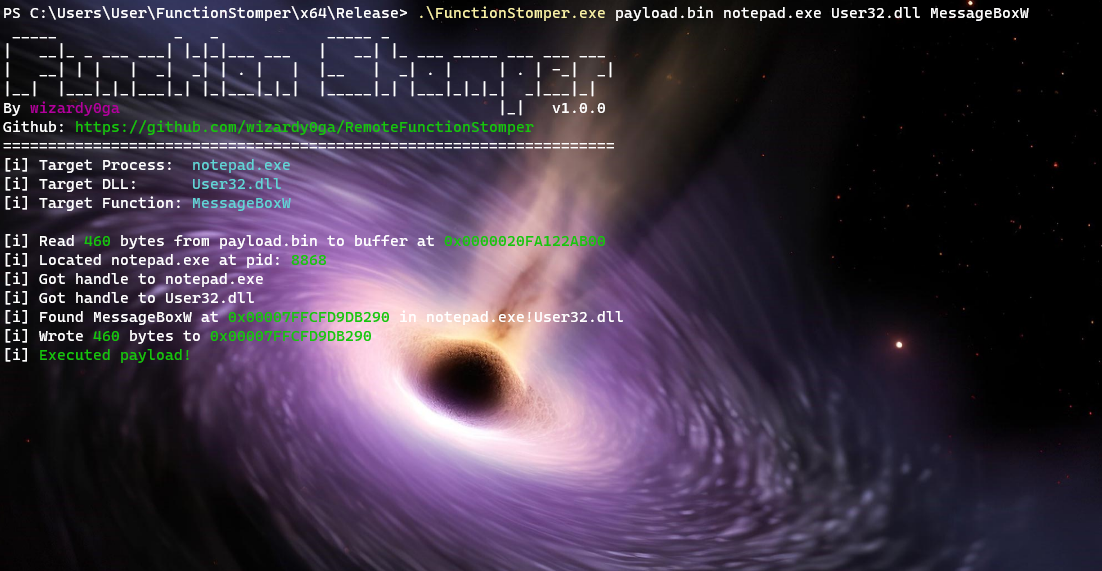
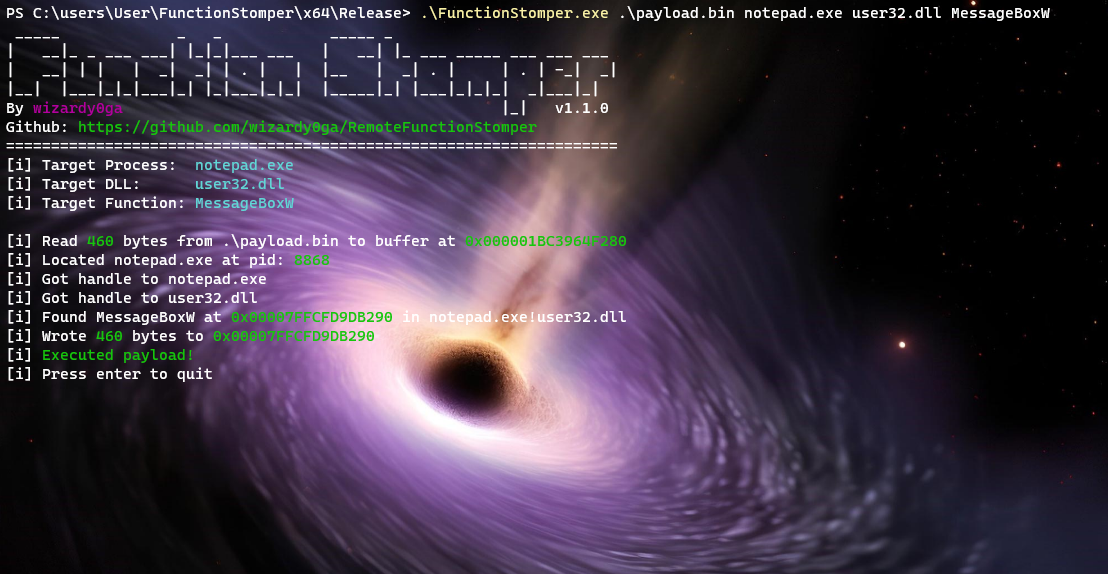
Update v1.1.0

diff --git a/FunctionStomper/FunctionStomper.c b/FunctionStomper/FunctionStomper.c
@@ -1,6 +1,7 @@
 #include <windows.h>
 #include <stdio.h>
 #include <tlhelp32.h>
+#include <psapi.h>
 
 #define GREEN   "\033[1;32m"
 #define YELLOW  "\033[1;33m"
@@ -17,14 +18,94 @@ CONST CHAR Banner[] = " _____             _   _            _____ _\n"
 "|   __|_ _ ___ ___| |_|_|___ ___   |   __| |_ ___ _____ ___ ___ ___\n"
 "|   __| | |   |  _|  _| | . |   |  |__   |  _| . |     | . | -_|  _|\n"
 "|__|  |___|_|_|___|_| |_|___|_|_|  |_____|_| |___|_|_|_|  _|___|_|\n"
-"By " PURPLE "wizardy0ga" END "                                          |_|   v1.0.0\n"
+"By " PURPLE "wizardy0ga" END "                                          |_|   v1.1.0\n"
 "Github: " GREEN "https://github.com/wizardy0ga/RemoteFunctionStomper" END "\n"
 "====================================================================\n";
 
-// description:            Gets the pid of a remote process by name
+// description:                 Convert an ansi string to a lower case string
 //
-// param -> lpProcessName: The name of the process to search for
-// param -> dwProcessId:   A pointer to a DWORD variable to write the pid to
+// param -> lpcString:          Pointer to a const char array that will be converted to a lower case string
+// param -> lpStringLower:      Pointer to a char array that will contain the lower case string
+// param -> szStringLowerSize:  Size of the lpStringLower parameter 
+VOID ConvertStringToLowerA(IN LPCSTR lpcString, OUT LPSTR lpStringLower, IN DWORD dwStringLowerSize) {
+    
+    // Set buffer to 0's
+    RtlSecureZeroMemory(lpStringLower, dwStringLowerSize);
+    
+    // Convert each character to a lower case character and store in buffer
+    SIZE_T  szStringSize    = strlen(lpcString);
+    int     i               = 0;
+    for (; i < szStringSize; i++) {
+        lpStringLower[i] = (CHAR)tolower(lpcString[i]);
+    }
+    lpStringLower[i++] = '\0';
+}
+
+// description:                  Convert a wide string to a lower case ansi string
+//
+// param -> lpcwString:          Pointer to a const wide char array that will be converted to a lower case string
+// param -> lpStringLower:       Pointer to a char array that will contain the lower case string
+// param -> szStringLowerSize:   Size of the lpStringLower parameter 
+VOID ConvertStringToLowerW(IN LPCWSTR lpcwString, OUT LPSTR lpStringLower, IN DWORD dwStringLowerSize) {
+    
+    // Set buffer to 0's
+    RtlSecureZeroMemory(lpStringLower, dwStringLowerSize);
+    
+    // Convert each character to a lower case character and store in buffer
+    SIZE_T  szStringSize    = lstrlenW(lpcwString);
+    int     i               = 0;
+    for (; i < szStringSize; i++) {
+        lpStringLower[i] = (CHAR)tolower(lpcwString[i]);
+    }
+    lpStringLower[i++] = '\0';
+}
+
+// description:                 Search a process for a loaded module
+// 
+// param -> hProcess:           Handle to the process to search
+// param -> lpcDllNameInput:    The name of the DLL to search for
+BOOL CheckProcessForModule(IN HANDLE hProcess, IN LPCSTR lpcDllNameInput) {
+    
+    HMODULE hModuleArray[1024];
+    DWORD   lpcbNeeded  = 0;
+
+    RtlSecureZeroMemory(hModuleArray, 1024);
+
+    // Populate module array with handles to modules in process
+    if (EnumProcessModules(hProcess, hModuleArray, 1024, &lpcbNeeded) == 0) {
+        apierror("EnumProcessModules");
+        return FALSE;
+    }
+
+    // Iterate over the module handles in the array
+    for (int i = 0; i < (lpcbNeeded / sizeof(HMODULE)); i++) {
+
+        // Get the name of the dll
+        CHAR lpBaseName[MAX_PATH];
+        RtlSecureZeroMemory(lpBaseName, MAX_PATH);
+        if (GetModuleBaseNameA(hProcess, hModuleArray[i], (LPSTR)lpBaseName, MAX_PATH)) {
+            
+            // Convert dll names to lower case
+            CHAR lpBaseNameLower[MAX_PATH];
+            CHAR lpDllNameInputLower[MAX_PATH];
+            ConvertStringToLowerA(lpBaseName, lpBaseNameLower, MAX_PATH);
+            ConvertStringToLowerA(lpcDllNameInput, lpDllNameInputLower, MAX_PATH);
+
+            // Check if DLL name in process matches DLL name in function
+            if (strcmp(lpBaseNameLower, lpDllNameInputLower) == 0) {
+                return TRUE;
+            }
+        }
+    }
+
+    // Return false if no matching dll name was found
+    return FALSE;
+}
+
+// description:             Gets the pid of a remote process by name
+//
+// param -> lpProcessName:  The name of the process to search for
+// param -> dwProcessId:    A pointer to a DWORD variable to write the pid to
 BOOL GetProcessPid(IN LPCSTR lpProcessName, OUT DWORD* dwProcessId) {
 
     HANDLE          hSnapshot   = NULL;
@@ -48,35 +129,29 @@ BOOL GetProcessPid(IN LPCSTR lpProcessName, OUT DWORD* dwProcessId) {
     do {
         if (Process.th32ProcessID && Process.szExeFile) {
 
-            // Set process name in structure to lowercase
+            // Set process names to lower case
             CHAR    ProcNameLower[MAX_PATH];
-            SIZE_T  StructProcessNameSize = lstrlenW(Process.szExeFile);
-            int i = 0;
-            RtlSecureZeroMemory(ProcNameLower, MAX_PATH);
-            for (; i < StructProcessNameSize; i++) {
-                ProcNameLower[i] = (CHAR)tolower(Process.szExeFile[i]);
-            }
-            ProcNameLower[i++] = '\0';
+            CHAR    ProcNameInputLower[MAX_PATH];
+            ConvertStringToLowerW(Process.szExeFile, ProcNameLower, MAX_PATH);
+            ConvertStringToLowerA(lpProcessName, ProcNameInputLower, MAX_PATH);
 
             // Check if process name matches process name given in parameter & save pid
-            if (strcmp(ProcNameLower, lpProcessName) == 0) {
+            if (strcmp(ProcNameLower, ProcNameInputLower) == 0) {
                 *dwProcessId = Process.th32ProcessID;
                 break;
             }
-
         }
 
     // Populate structure with next process in the snapshot
     } while (Process32Next(hSnapshot, &Process));
 
+    // Cleanup
     if (hSnapshot) {
         CloseHandle(hSnapshot);
     }
-
     if (*dwProcessId == 0) {
         return FALSE;
     }
-
     return TRUE;
 
 }
@@ -230,10 +305,21 @@ int main(int argc, char* argv[]) {
 
     // Open a handle to the process
     if (!(hProcess = OpenProcess(PROCESS_ALL_ACCESS, FALSE, dwProcessId))) {
-        apierror("OpenProcess");
+        if (GetLastError() == ERROR_ACCESS_DENIED) {
+            error("Insufficient privileges to access %s at pid %d", TargetProc, dwProcessId);
+        }
+        else {
+            apierror("OpenProcess");
+        }
         goto Cleanup;
     }
     print("Got handle to %s", TargetProc);
+
+    // Ensure target DLL is present in the process
+    if (!(CheckProcessForModule(hProcess, TargetDll))) {
+        error("%s is not loaded in %s", TargetDll, TargetProc);
+        goto Cleanup;
+    }
 
     // Load the target library into this process
     if (!(hModule = LoadLibraryA(TargetDll))) {

diff --git a/README.md b/README.md
@@ -3,7 +3,7 @@
 |   __|_ _ ___ ___| |_|_|___ ___   |   __| |_ ___ _____ ___ ___ ___
 |   __| | |   |  _|  _| | . |   |  |__   |  _| . |     | . | -_|  _|
 |__|  |___|_|_|___|_| |_|___|_|_|  |_____|_| |___|_|_|_|  _|___|_|
-By wizardy0ga                                          |_|   v1.0.0
+By wizardy0ga                                          |_|   v1.1.0
 Github: https://github.com/wizardy0ga/RemoteFunctionStomper
 ```
 
@@ -70,3 +70,11 @@ FunctionStomper.exe <path to payload.bin> <target process name> <dll name> <func
 [From Process Injection to Function Hijacking](https://klezvirus.github.io/RedTeaming/AV_Evasion/FromInjectionToHijacking/#:~:text=Function%20stomping%20is%20a%20technique,overwrites%20a%20specific%20exported%20function.)
 
 [Function Stomping](https://github.com/Idov31/FunctionStomping)
+
+### Change Log
+
+#### Version 1.1.0
+
+- Added check operation to ensure specified DLL exists in the target process before injecting payload.
+- Added ability to use any letter casing in the target process argument.
+- Added error checking for insufficient privileges when accessing a process running at a higher privilege / integrity level.
